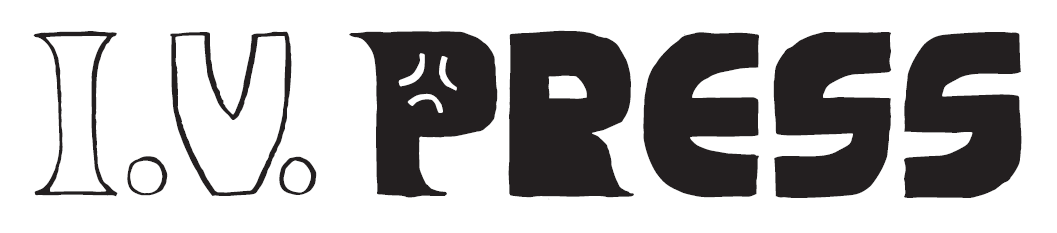
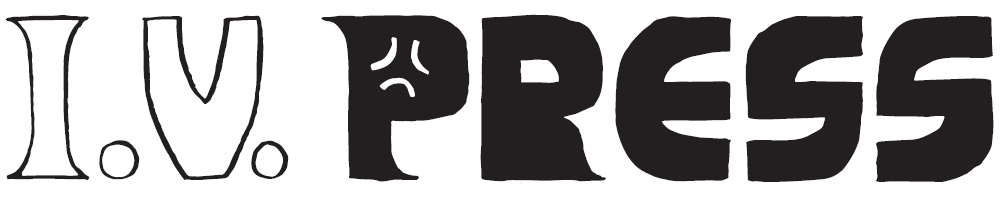
made responsive for mobile

diff --git a/index.html b/index.html
@@ -3,10 +3,12 @@
 <head>
     <meta charset="UTF-8" />
     <title>Ink Vein Press</title>
+    <link rel="stylesheet" href="styles.css">
+    <link rel="icon" type="image/x-icon" href="/images/iconlogo.png">
 </head>
 <body>
-    <div style="text-align: center;font-family: 'Gill Sans', 'Gill Sans MT', Calibri, sans-serif;">
-        <img src="images/banner.png">
+    <div class="centred-element">
+        <img src="images/banner.png" class="banner">
         <br>
         <p>
             The website for independent micropublisher IV Press... is a work in progress.

diff --git a/styles.css b/styles.css
@@ -1,0 +1,20 @@
+body {
+    background-color: white;
+    font-size: 20px;
+    font-family: 'Gill Sans', 'Gill Sans MT', Calibri, sans-serif;
+}
+
+@media only screen and (max-width: 600px) {
+  body {
+    font-size: 30px;
+  }
+}
+
+.banner {
+    width: 100%;
+    max-width: 1000px;
+}
+
+.centred-element {
+    text-align: center;
+}
